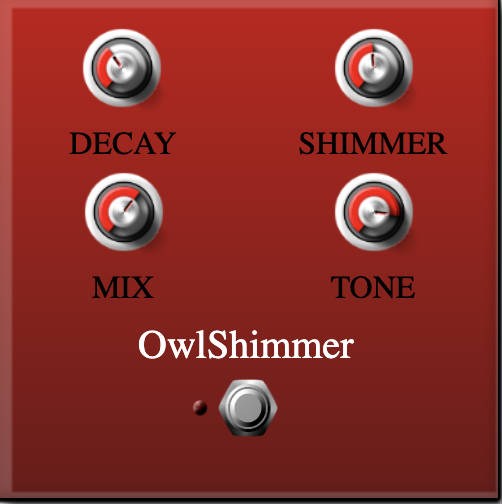
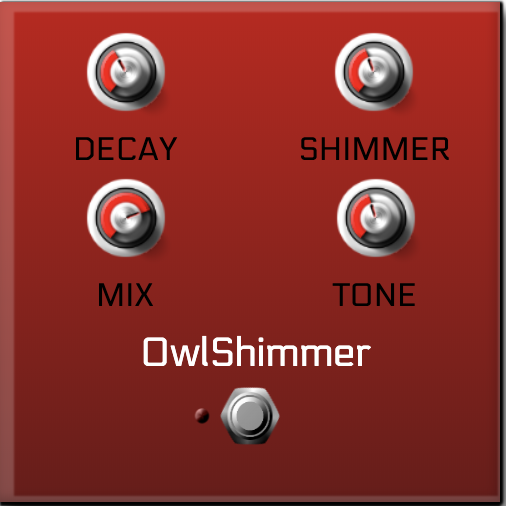
owlshimmer style

diff --git a/jordan-SINTES/OwlShimmer/main.html b/jordan-SINTES/OwlShimmer/main.html
@@ -1,3 +1,5 @@
+<link rel="stylesheet"
+          href="https://fonts.googleapis.com/css?family=Electrolize">
 <script
     src="https://mainline.i3s.unice.fr/WebAudioPluginBank/bower_components/webaudio-controls2/webcomponents-lite.js"></script>
 <script>
@@ -10,7 +12,6 @@
 <template>
     <style>
         :host {
-            font: "DarkMoon", 'Arial Black';
             display: block;
             box-shadow: 4px 5px 6px rgba(0, 0, 0, 0.7), inset -2px -2px 5px 0px rgba(0, 0, 0, 0.2), inset 3px 1px 1px 4px rgba(255, 255, 255, 0.2), 1px 0px 1px 0px rgba(0, 0, 0, 0.9), 0 2px 1px 0 rgba(0, 0, 0, 0.9), 1px 1px 1px 0px rgba(0, 0, 0, 0.9);
             background: linear-gradient(rgb(197, 18, 18), rgb(109, 22, 22));
@@ -20,6 +21,7 @@
             user-select: none;
             cursor: move;
             z-index: 9;
+            font-family: "Electrolize"
             /* bring your own prefixes */
         }
 
@@ -74,7 +76,6 @@
             top: 225px;
             font-size: 20px;
             /*{font}*/
-            font-family: "DarkMoon";
             text-align: center;
             line-height: 30px;
             /*{pedalfontsize}*/
